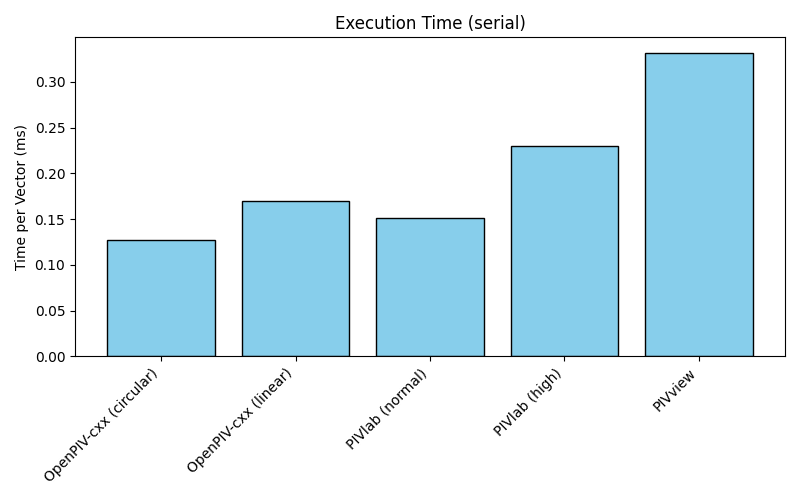
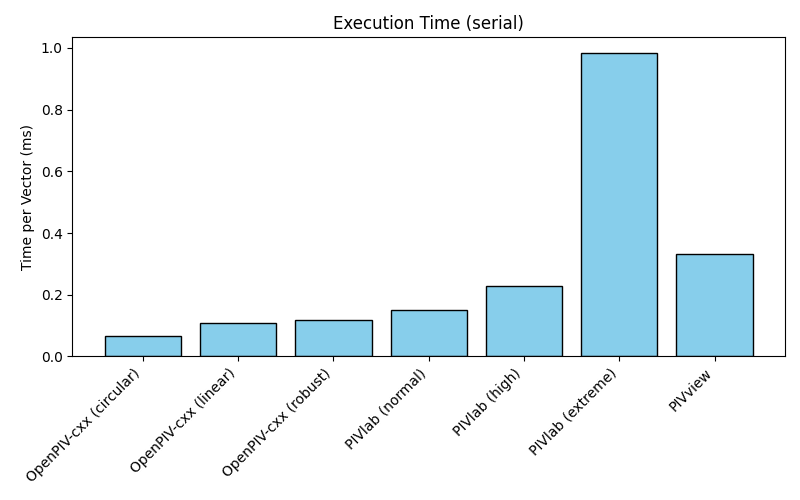
Updated some stuff

diff --git a/pages/blogs/blog-openpiv-cxx-performance.md b/pages/blogs/blog-openpiv-cxx-performance.md
@@ -82,7 +82,7 @@ To analyze the performance of the new enhancements to the c++ version of OpenPIV
 | Batch 8 | Displacement test | 0.020 noise; 0-5 pixels displacement |
 | Batch 9 | Displacement test | 0.025 noise; 0-5 pixels displacement |
 
-During the tests, some amends were made. For one, particle diameters had a standard deviation of zero for test batches one through three so minimize variables. Batches four to nine still have a standard deviation of one pixel (e.g., particle sizes of 3 +/- 1 pixels). Finally, particle loss was removed from the noise tests due to certain concerns observed during the results, which seemed to not be a problem.
+During the tests, some amends were made. For one, particle diameters had a standard deviation of zero for test batches one through three to minimize variables. Batches four to nine still have a standard deviation of one pixel (e.g., particle sizes of 3 +/- 1 pixels). Finally, particle loss was removed from the noise tests due to certain concerns observed during the results, which seemed to not be a problem.
 
 ## PIV Settings
 Note: No preprocessing or postprocessing was done on any image pair.
@@ -114,7 +114,7 @@ OpenPIV (circular)
 | Interpolation | Lagrange (k=3) |
 | Deformation Order | 2 (symmetric) |
 
-OpenPIV (linear)
+OpenPIV (linear and robust)
 | Setting | Value |
 | --- | --- |
 | IW Sizes | 64 -> 32 -> 24 |
